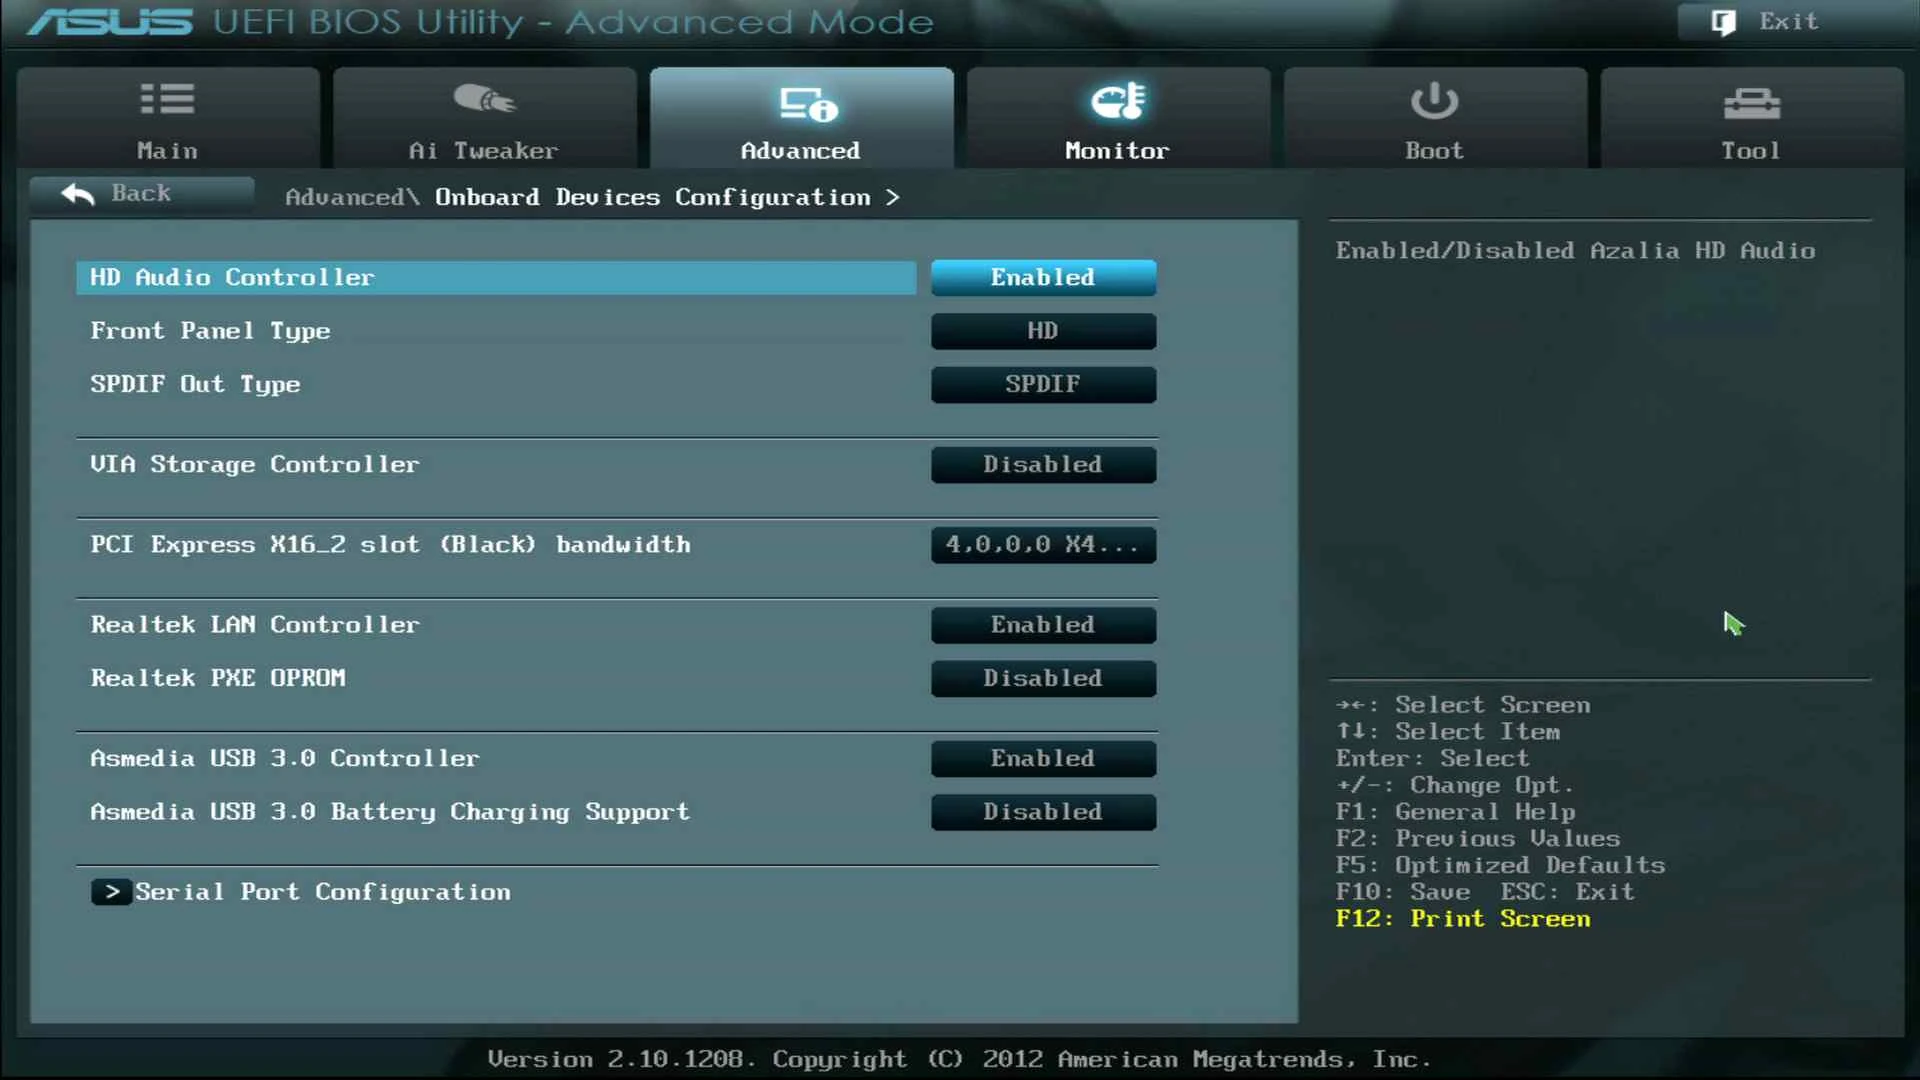
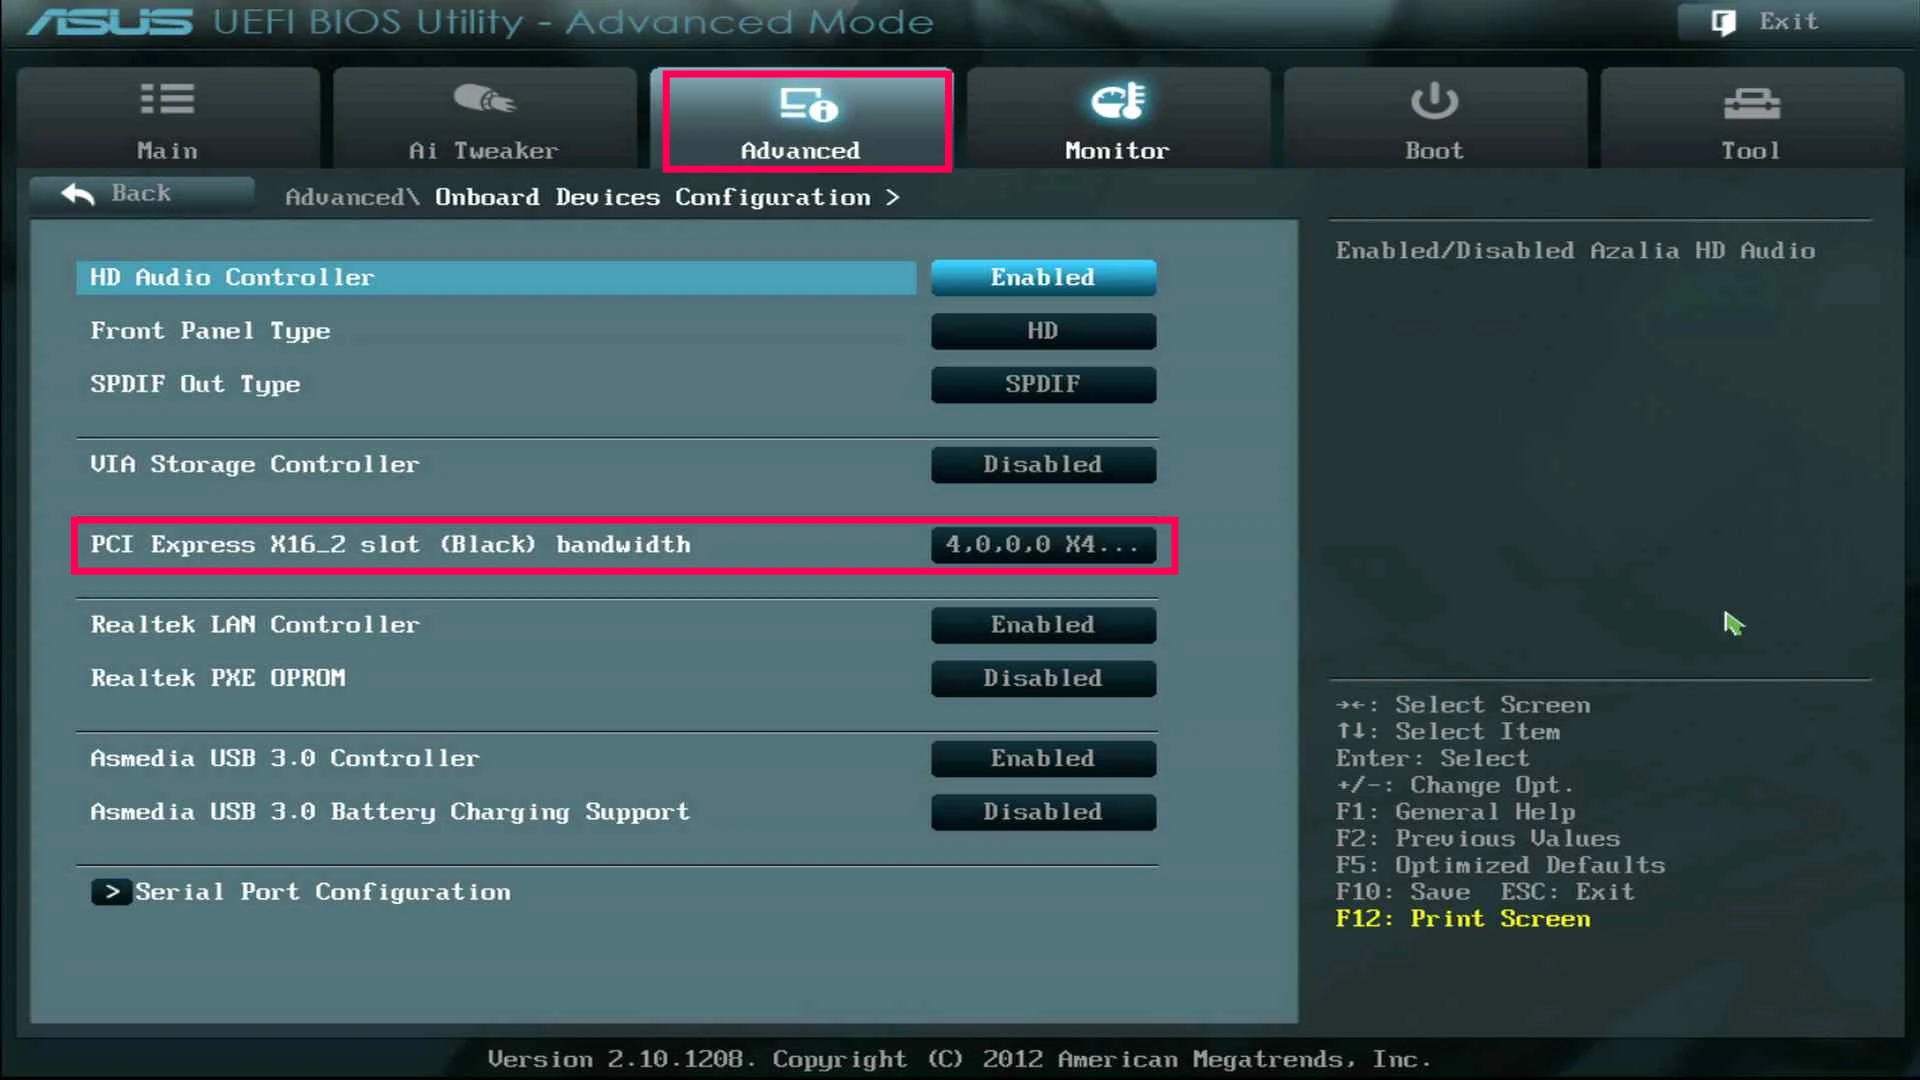
NABI 매뉴얼 그림에 빠진 빨간 벡터 표시를 그려 넣는다
PDF가 이미지 위나 옆에 벡터로 덧그린 빨간 표시는 pdfimages로 뽑히지 않아 빠졌다. pdftocairo -svg의 좌표를 이미지 픽셀로 옮겨 그린다.

- setup-troubleshooting-02: BIOS 화면의 Advanced 탭과 PCI Express 줄 강조 상자 둘
- cg-editing-033: 정렬 위치 메뉴 오른쪽의 빨간 화살표

색 있는 벡터는 이 둘뿐이다(27쪽 파란색은 링크 밑줄).

Changed region(s): [[0.0312, 0.4583, 0.625, 0.55], [0.3438, 0.0611, 0.5, 0.1833]]

diff --git a/.scratch/nabi-manual/review-lists.md b/.scratch/nabi-manual/review-lists.md
@@ -165,6 +165,7 @@
 - `pdfimages -png`로 뽑은 객체를 q90 손실 WebP와 무손실 WebP 중 작은 쪽으로 저장한다. 작은 아이콘 42개가 무손실이다. 합계 약 7.4MB다.
 - PDF가 clip으로 일부만 보이는 23개는 보이는 영역대로 자른다. clip 영역은 `pdftocairo -svg`의 clipPath와 이미지 행렬로 셈한다. `setup-troubleshooting-01`(26쪽 BIOS 화면 객체의 한 줄), `cg-shortcuts-22`(Take In·Take Out 아이콘 중 왼쪽)가 여기 든다.
 - `cg-editing-139`는 따로 나오는 마스크(`pdfimages` 181, `mask` 행)를 alpha로 합쳐 투명 배경을 살린다. 마스크 행은 번호를 차지하지만 목록 번호는 이미 이를 셈해 두었다. `smask`는 없다.
+- PDF가 이미지 위나 옆에 벡터로 덧그린 빨간 표시 두 곳은 `pdftocairo -svg`의 좌표를 이미지 픽셀로 옮겨 그려 넣는다. `setup-troubleshooting-02`의 강조 상자 둘, `cg-editing-033` 오른쪽의 빨간 화살표다. 색 있는 벡터는 이 둘뿐이다(27쪽 파란색은 링크 밑줄).
 
 ### [setup 변환](issues/07-setup-conversion.md)
 
@@ -189,7 +190,7 @@
 | `setup-software-install-25.webp` | 24 | 27 | Download VLC Player 창 |
 | `setup-software-install-26.webp` | 25 | 28 | Edit Resolution 창 |
 | `setup-troubleshooting-01.webp` | 25 | 29 | CMOS의 PCI Express bandwidth 설정 줄. 26쪽 BIOS 화면과 같은 객체를 잘라 보인 것이라 직접 잘라야 한다 |
-| `setup-troubleshooting-02.webp` | 26 | 30 | ASUS UEFI BIOS Utility 화면 |
+| `setup-troubleshooting-02.webp` | 26 | 30 | ASUS UEFI BIOS Utility 화면(벡터 빨간 상자 둘을 그려 넣었다) |
 | `setup-troubleshooting-03.webp` | 26 | 31 | 작업창 중앙의 빨간색 십자선 |
 | `setup-troubleshooting-04.webp` | 27 | 32 | Output Display Format 목록 |
 
@@ -272,7 +273,7 @@
 | `cg-editing-028.webp` | 55 | 34 | 크기 조절 상자 8개 |
 | `cg-editing-029.webp` | 55 | 35 | 크기 조절 방향 화살표 |
 | `cg-editing-030.webp`–`032.webp` | 56 | 37–39 | 안내선, 정렬선, 선택 객체 기준 정렬 아이콘(목록 안) |
-| `cg-editing-033.webp` | 56 | 40 | 정렬 위치 선택 메뉴(표 왼쪽 그림. 사이의 빨간 화살표는 벡터라 빠진다) |
+| `cg-editing-033.webp` | 56 | 40 | 정렬 위치 선택 메뉴(표 왼쪽 그림. 사이의 빨간 벡터 화살표를 오른쪽에 그려 넣었다) |
 | `cg-editing-034.webp` | 56 | 41 | 가로, 세로, 가로+세로 크기 맞추기 아이콘 |
 | `cg-editing-035.webp` | 57 | 43 | 기준객체와 선택된 객체들 |
 | `cg-editing-036.webp` | 57 | 44 | 크기 맞추기 결과 셋(위에 아이콘 줄 포함) |
